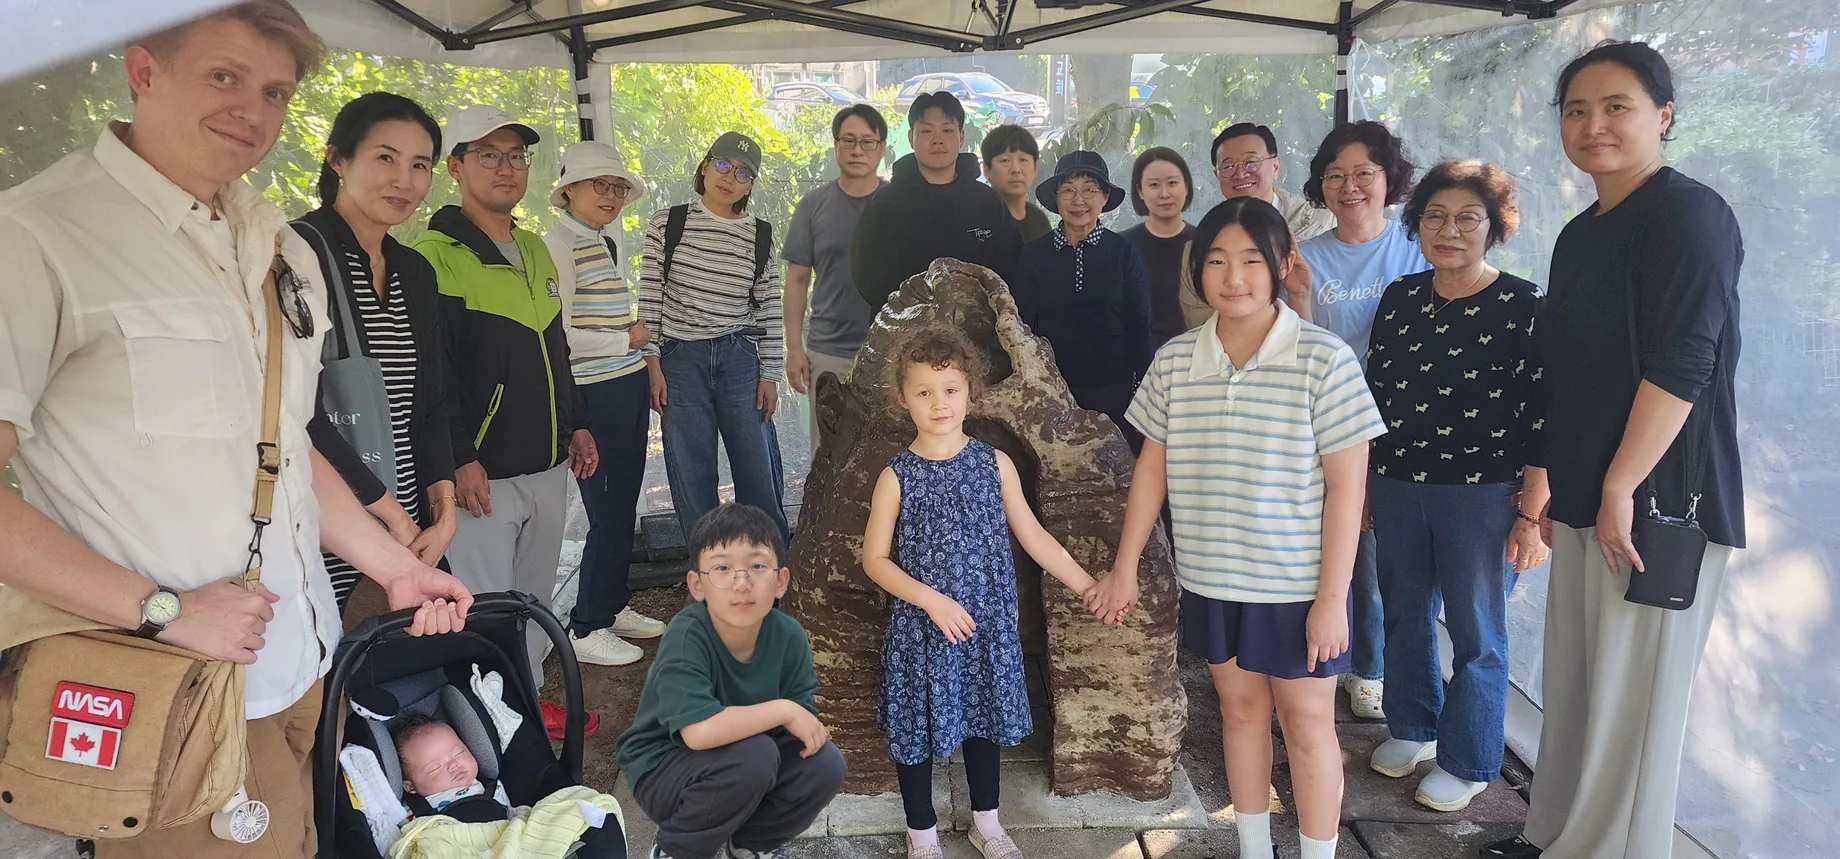
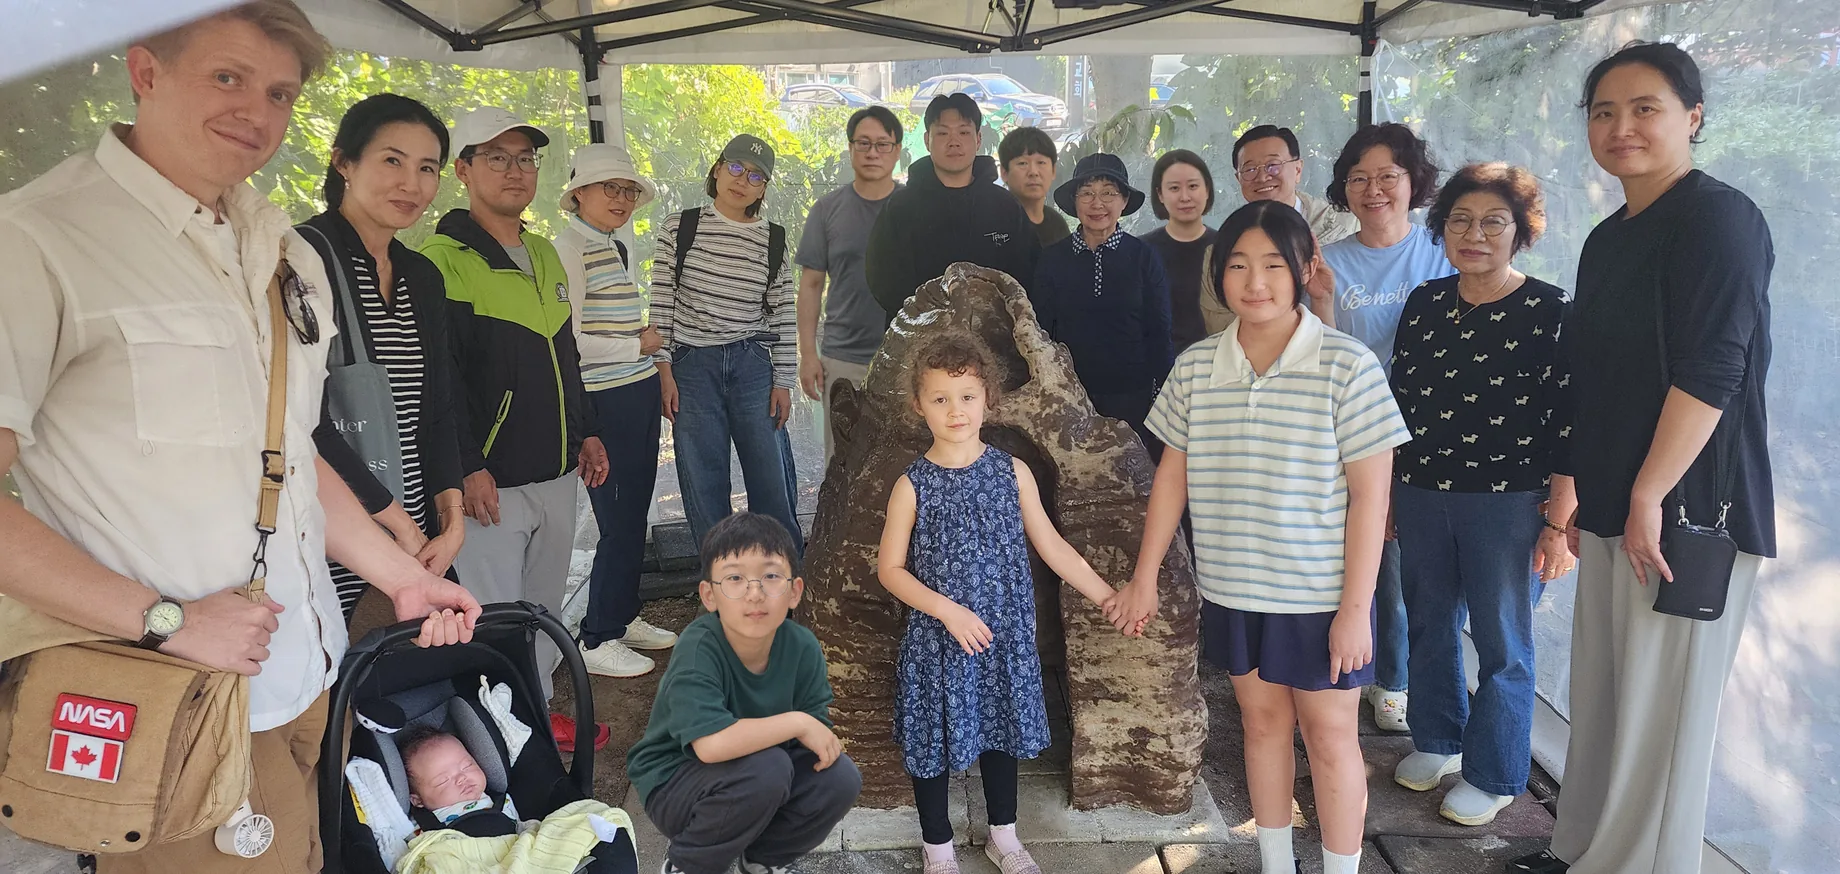
단체 사진: 오른쪽 여백 3분의 1 잘라냄

diff --git a/app/_components/artist-index-page.js b/app/_components/artist-index-page.js
@@ -77,7 +77,7 @@ export default function ArtistIndexPage({ artists }) {
       </header>
 
       <figure className="xi-group">
-        <img src="/artist-media/group-photo.webp" alt="대형 울림통 앞에 모인 시민작가와 가족들" width="1840" height="859" />
+        <img src="/artist-media/group-photo.webp" alt="대형 울림통 앞에 모인 시민작가와 가족들" width="1840" height="874" />
         <figcaption>당일 함께하지 못한 4인은 AI를 활용해 합성하였습니다.</figcaption>
       </figure>
 
